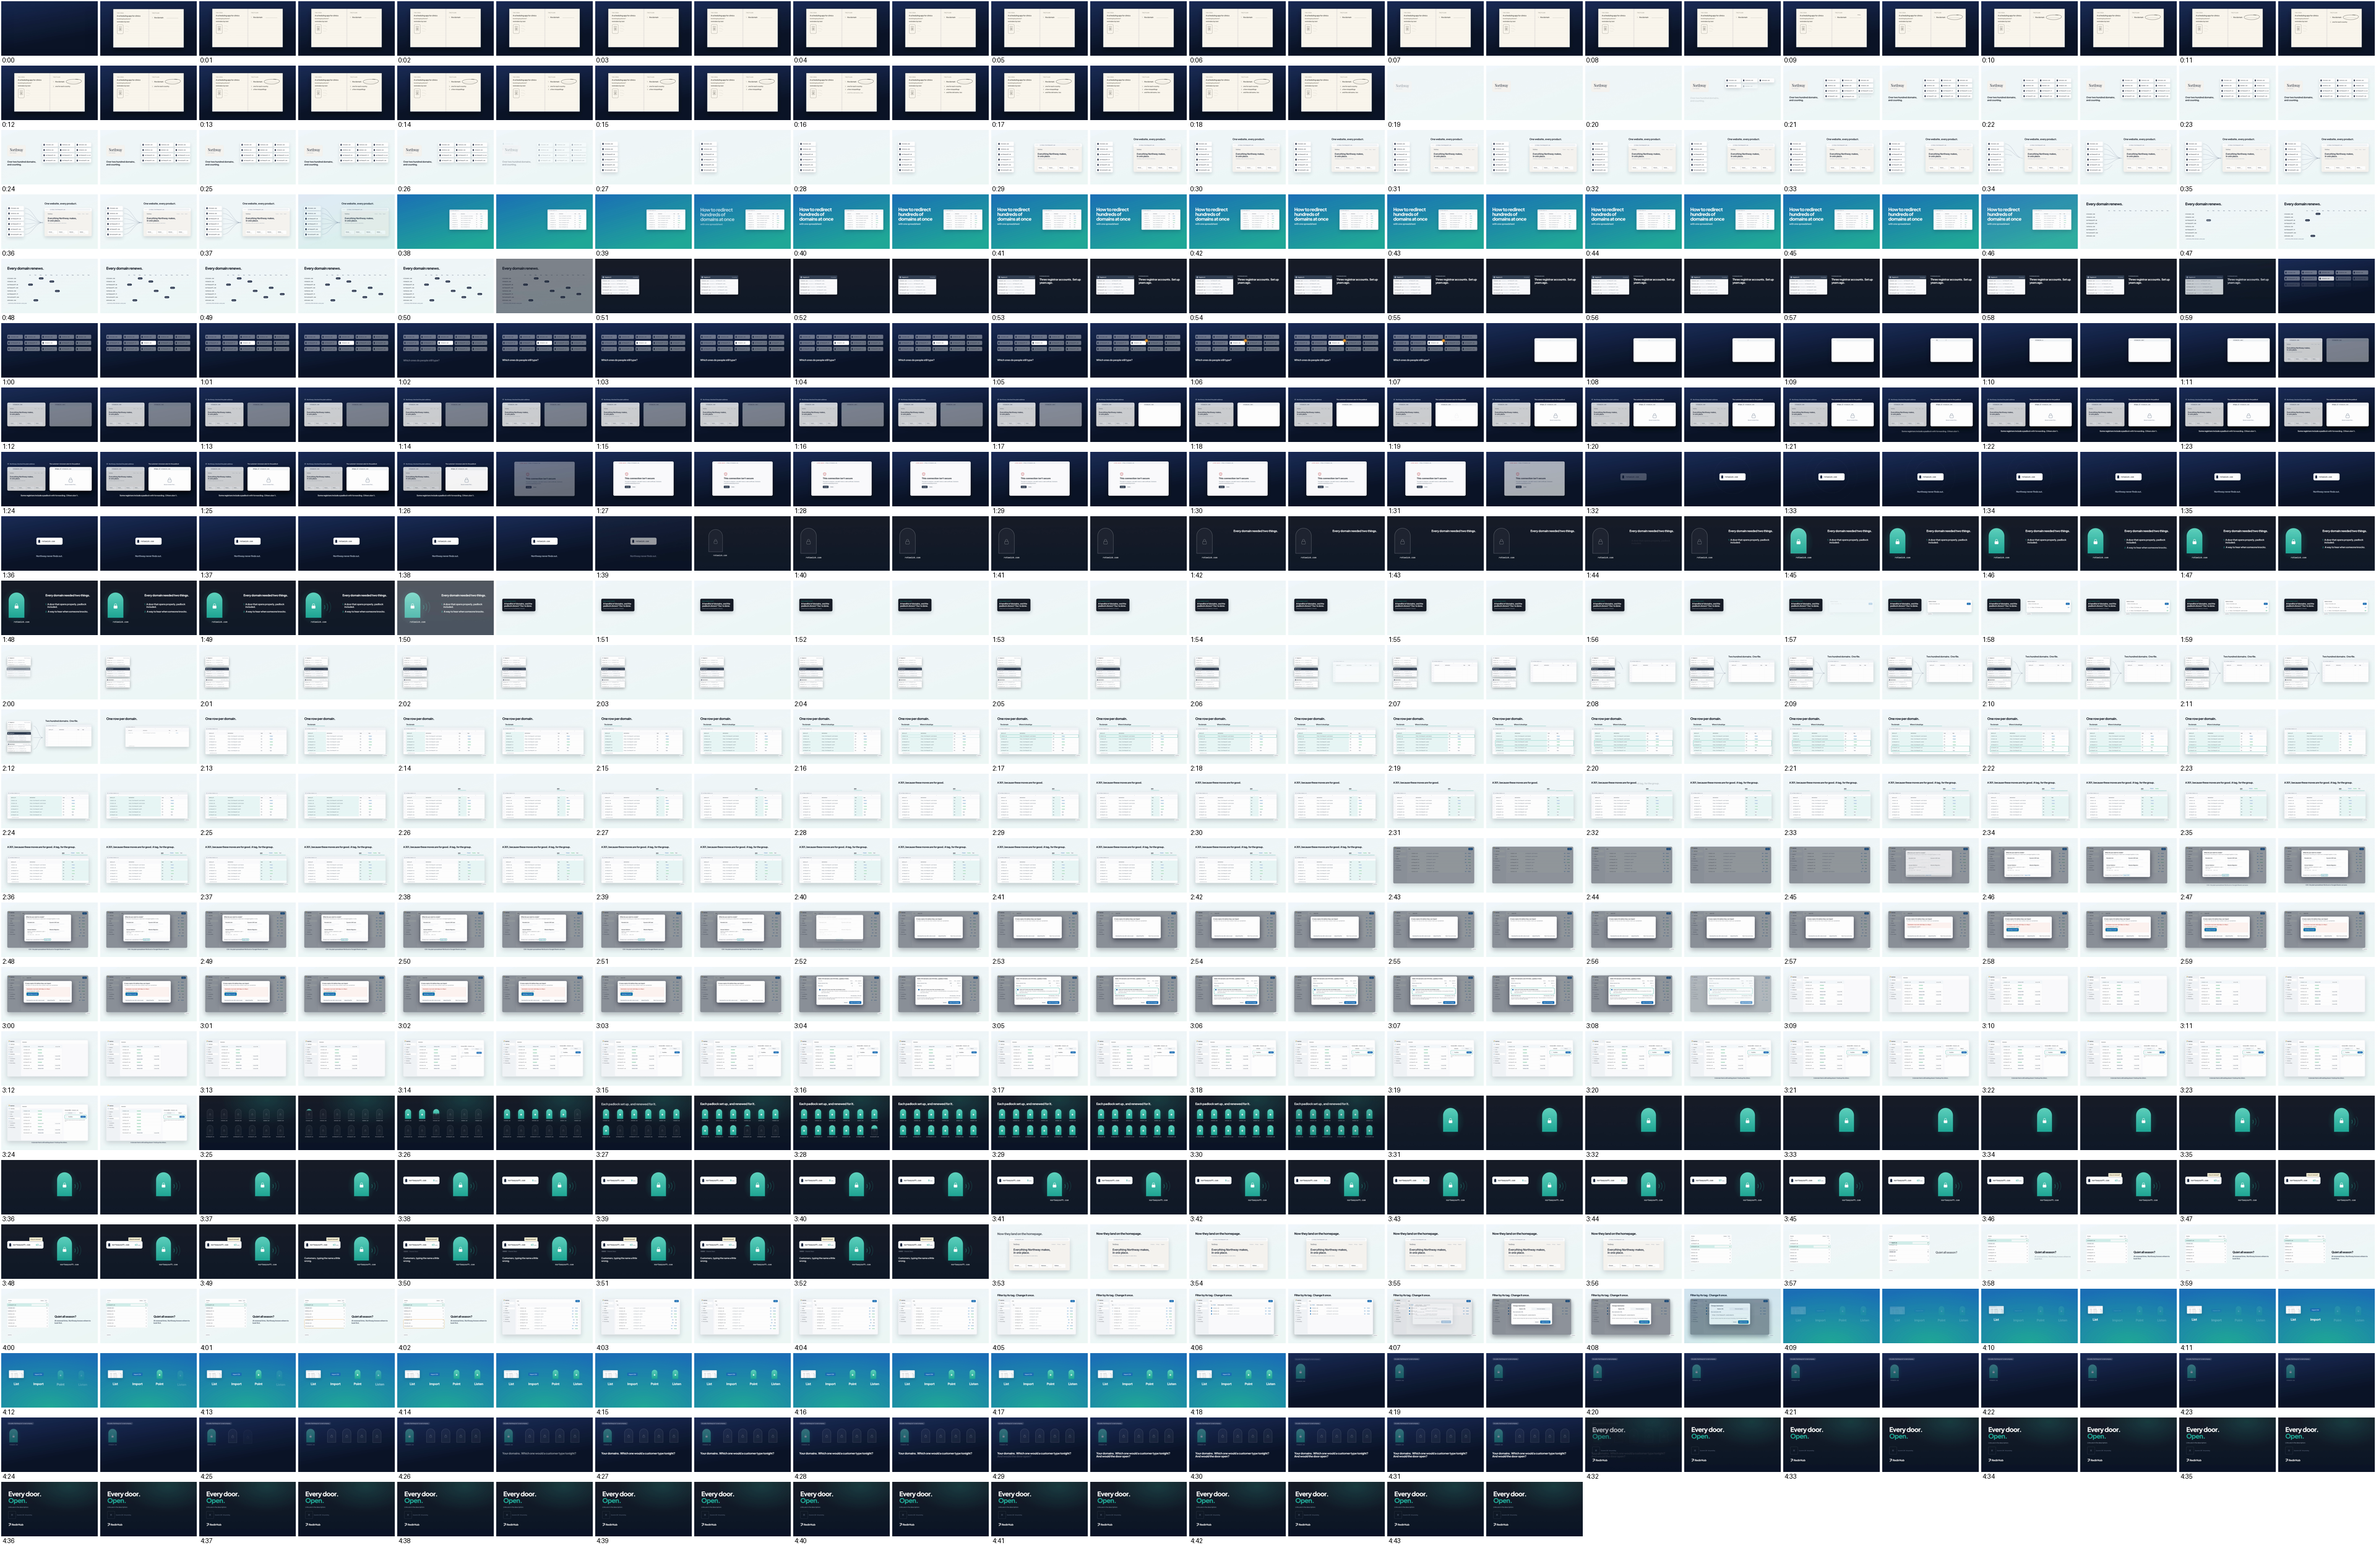
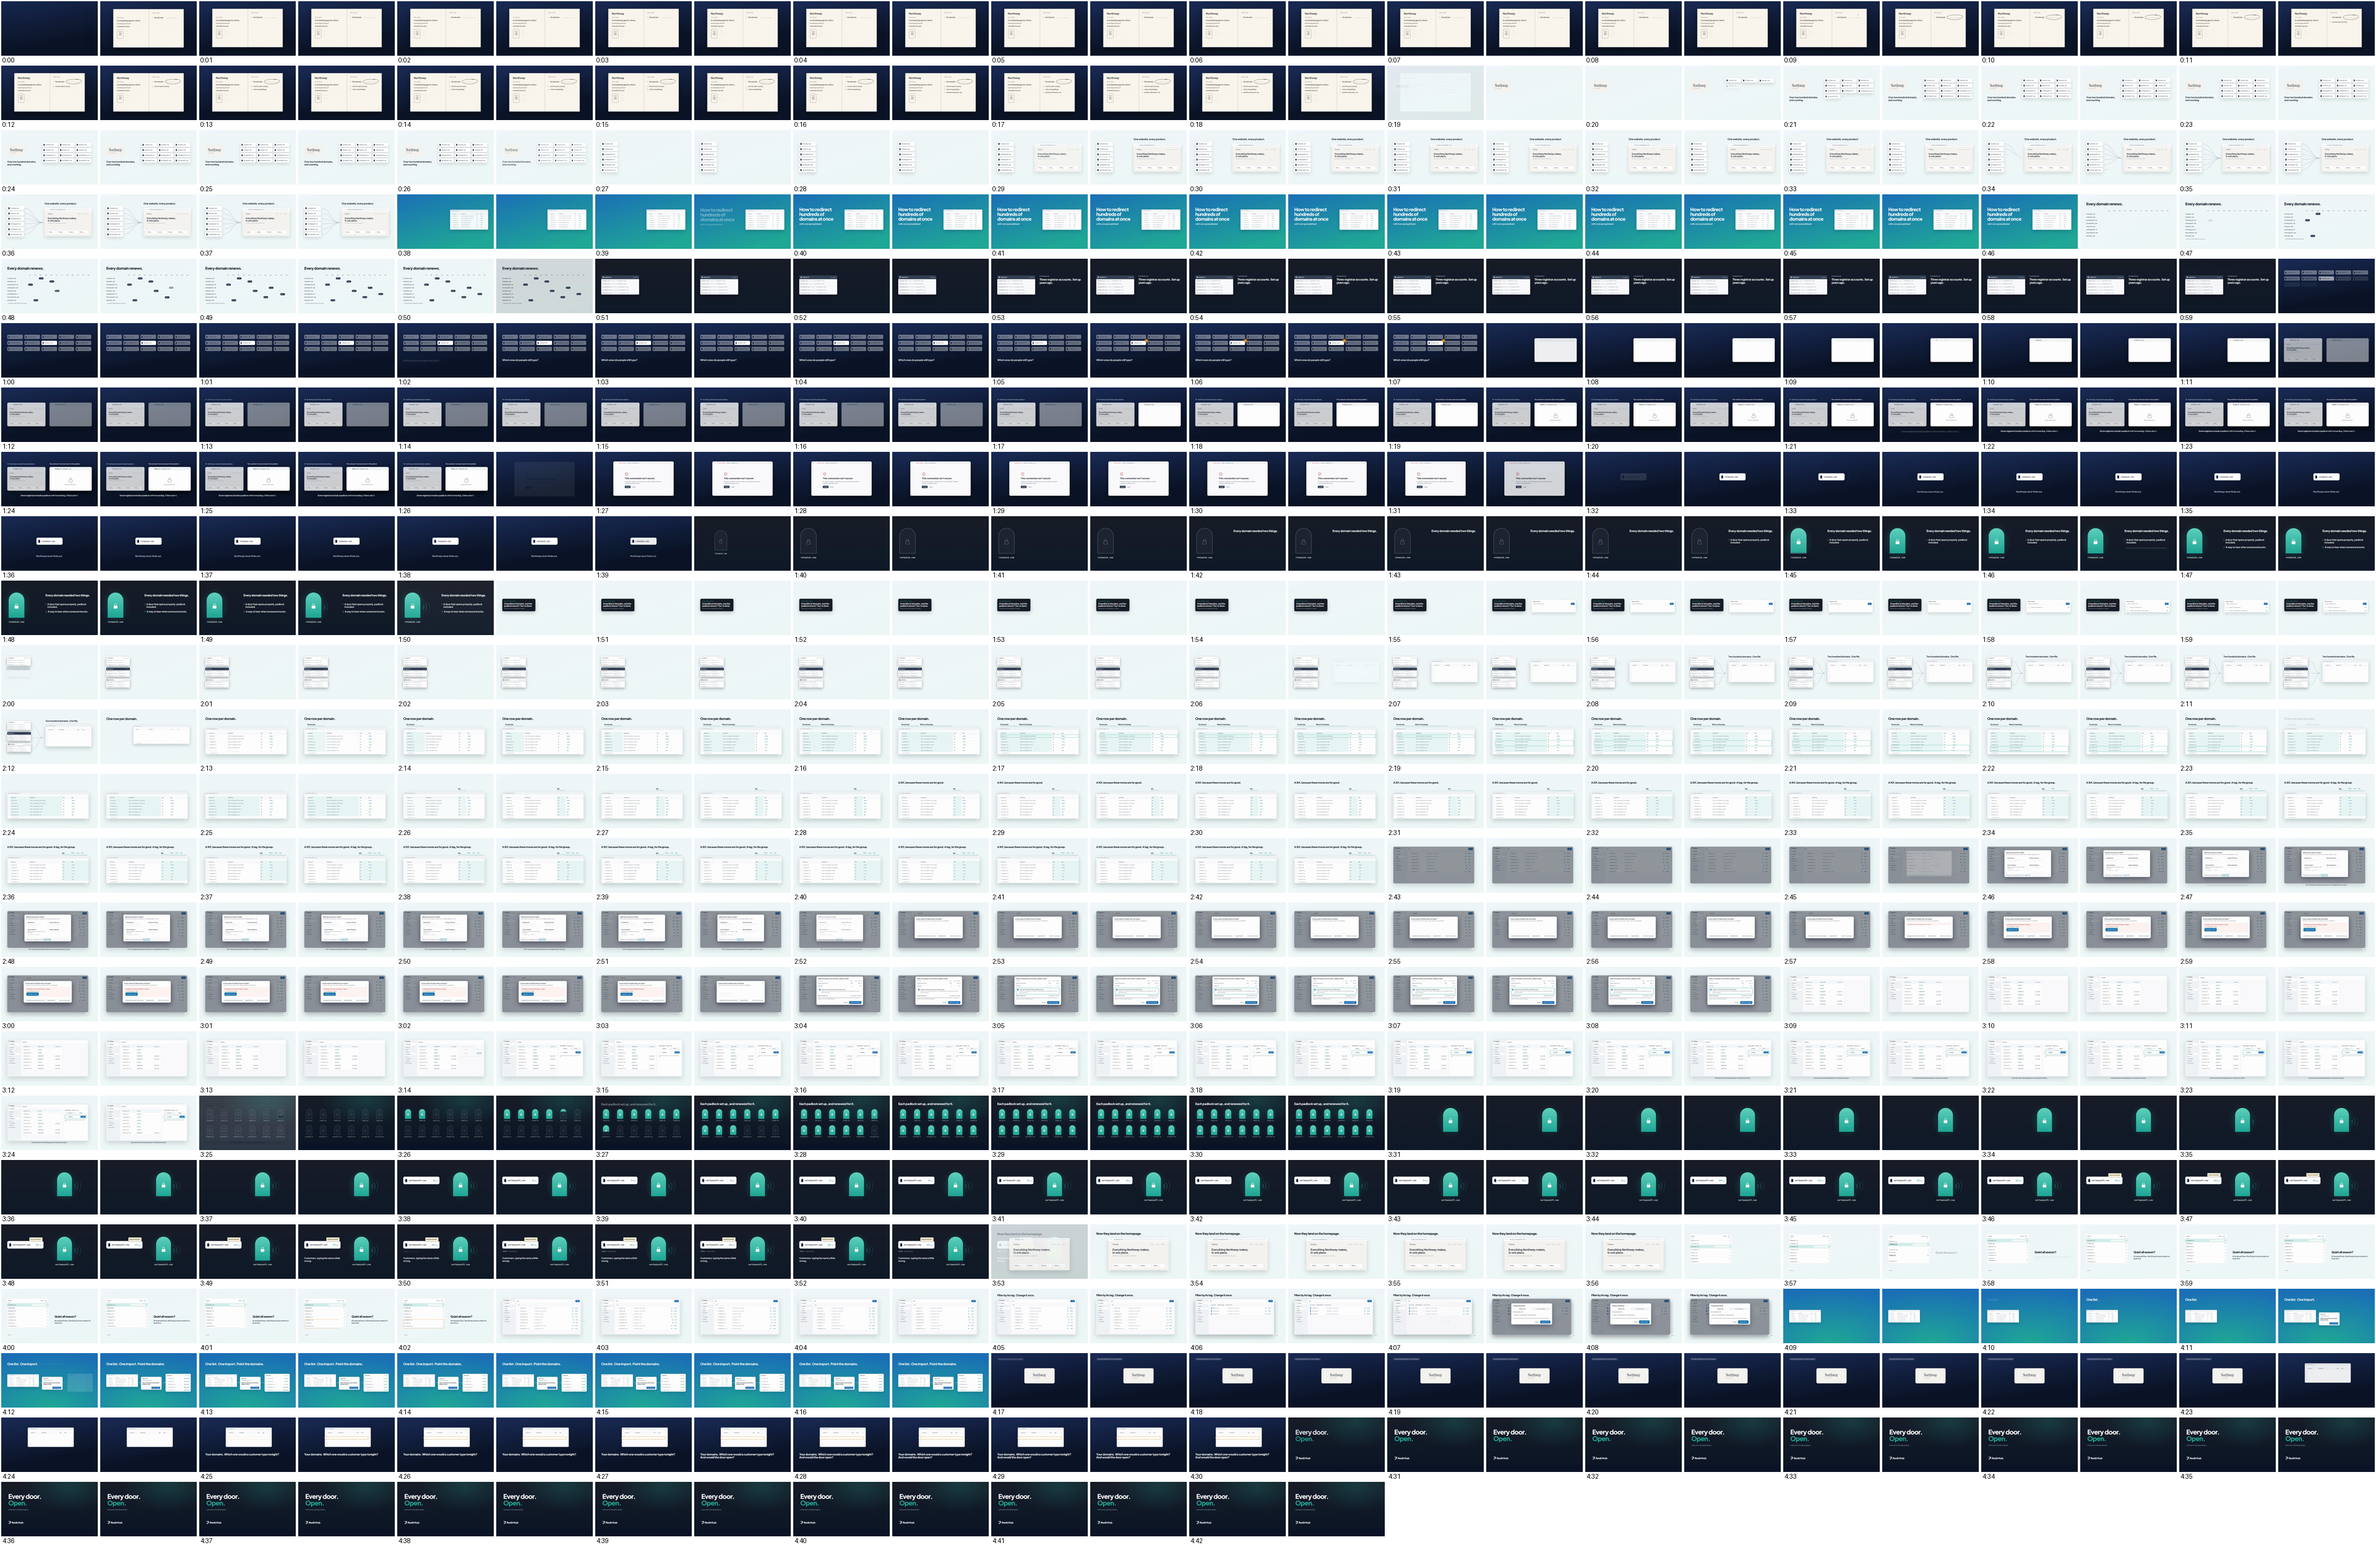
W46 v6.1: checker on "handful", list crossfades with the wordmark; review notes
Claude-Session: https://claude.ai/code/session_019xkpjvKnFbjdz18ybVGN1j

diff --git a/src/remotion/reels/bulk-redirects/ActG.tsx b/src/remotion/reels/bulk-redirects/ActG.tsx
@@ -41,7 +41,7 @@ export function YoursScene() {
         // the aside leaves with Northway's wordmark: from "Picture your own list" the frame is the viewer's
         0: (() => { const m = slideIn(t, aside, 0.6, 0, 10); return { ...m, opacity: (m.opacity as number) * leave }; })(),
         1: { ...card, opacity: (card.opacity as number) * leave, transformOrigin: '960px 450px' },
-        2: slideIn(t, picture, 0.6, 0, 24),
+        2: slideIn(t, picture - 0.3, 0.6, 0, 24), // arrives as the wordmark leaves (a crossfade, no dip)
     };
     return <FrameScene k="YourNames" moves={moves} vars={{
         ...hookIn(t, 'hot', L.word(34, 'which') - 0.1, 0.45, 0),

diff --git a/src/remotion/reels/bulk-redirects/ActD.tsx b/src/remotion/reels/bulk-redirects/ActD.tsx
@@ -58,8 +58,8 @@ export function HonestScene() {
     return (
         <FrameScene k="Honest" moves={{
             0: slideIn(t, L.word(14, 'one') - 0.25, 0.6, -40, 0),
-            // the checker waits on the right from "shows the padlock" (the right half sat empty for 6 s) and runs on "Check one"
-            1: slideIn(t, L.word(14, 'padlock') - 0.3, 0.55, 30, 0),
+            // the checker waits on the right from "a handful of domains" (the right half sat empty for 6 s) and runs on "Check one"
+            1: slideIn(t, L.word(14, 'handful') - 0.2, 0.55, 30, 0),
         }} vars={{ ...hop(1, check + 0.35), ...hop(2, check + 0.8) }} />
     );
 }

diff --git a/youtube/02_videos/2026-W46_bulk-domain-redirects/review.md b/youtube/02_videos/2026-W46_bulk-domain-redirects/review.md
@@ -1,5 +1,35 @@
 # W46 review notes
 
+## v6.1 · Leo's review of the Northway cut (2026-11-14)
+
+Leo's notes, by the timeline, and what changed:
+
+| Leo | Done |
+|---|---|
+| The first line should be "Imagine you have a company". | Beat 1 regenerated alone (same voice, model, seed, settings); Whisper hears it word for word. |
+| 1:49: the URL isn't centred under the door. | Fixed in `door()`: the knock arcs made the drawing wider than the door, and centring that wider drawing pushed the door left of its label. The label now moves with the door (Door and Knocks). |
+| The knock isn't a knocking sound; fix it everywhere. | The v6 file was Mixkit #1523, **"Heavy sliding door"**, picked under the wrong title. Replaced with Mixkit #197, "Knocking on a thick wooden door": three real knocks 0.18 s apart (attacks measured at 0.018, 0.194, 0.386 s); the knock arcs follow the new rhythm in both scenes. |
+| After 4:09 the summary feels poorly made; another way, no "listen". | Beat 32 regenerated without "And listen for the knock". The summary is now the film's own three objects: the list (northway-domains.csv), the import's review ("Adds 214 domains…") and Hostnames, its rows turning Connected; joined by the film's draw move (as beat 4), with the spoken summary building above, phrase by phrase. |
+| On "Northway isn't a real company", show Northway's logo, not the door; no doors in the summary. | The aside shows Northway's wordmark; on "Picture your own list" it leaves and the viewer's own list arrives (your-domains.csv, rows unnamed); on "Which domain would a customer type tonight?" one row lights amber. No door is drawn after the knocks. The voice's last words ("would the door open for them?") and the end line stay. |
+| Remove the pending dynamic QR. | Removed; the end card is the line, "Links are in the description" and the RedirHub logo, the right half clear. |
+
+My own pass, from the fresh-eyes review's open items:
+
+- **Northway on screen from the start.** "Northway" is now written at the top of the notebook as she names it (0:02); before, the
+  name was only heard until the wordmark at 0:19 (open-questions.md R-1, closed).
+- **No empty half in the honest note.** The checker arrived on "Check one", leaving the right half empty for 6 s; it now comes in
+  on "a handful of domains" and runs on "Check one".
+- **No dip at "Picture your own list".** The wordmark left a beat before the list arrived (flash_check, 263.4 s); they now
+  crossfade.
+
+Checks on the v6.1 render (`out/bulk-redirects.mp4`): 4:43 (283.05 s), 1920×1080, 60 fps; **−14.1 LUFS**, **−3.1 dBTP**.
+Contact sheet every 0.5 s (`w46-contact-sheet.png`), every frame looked at. Re-transcribed against script v6.1: **0.996**
+(685/688; spelling only, plus one "and" under the music); beat 1 heard word for word, beat 20 "Redirect Hub". keyframes-check
+30/30. flash_check: cuts only, after the crossfade fix; stutter_check: 8-bit fade rounding (≤ 4.5 grey levels). The last
+two timing fixes (checker, crossfade) came after this render and were checked as stills; the CI render of the pushed commit is
+the preview.
+
+
 ## v6 · the Northway cut (2026-11-13)
 
 Leo's corrective pass: the story rebuilt around Northway, a small software company, re-voiced from script v6,
